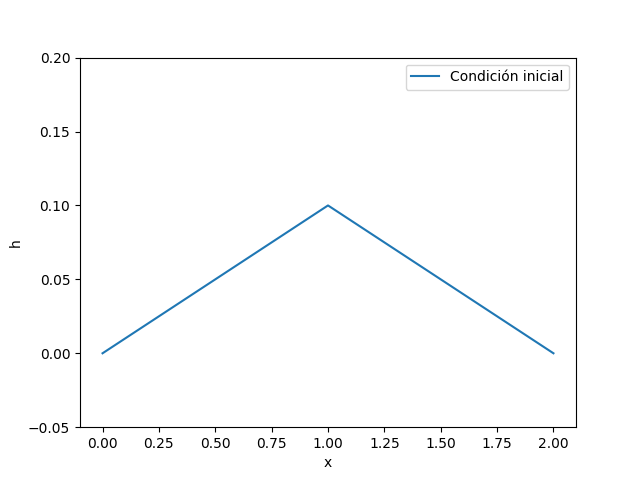
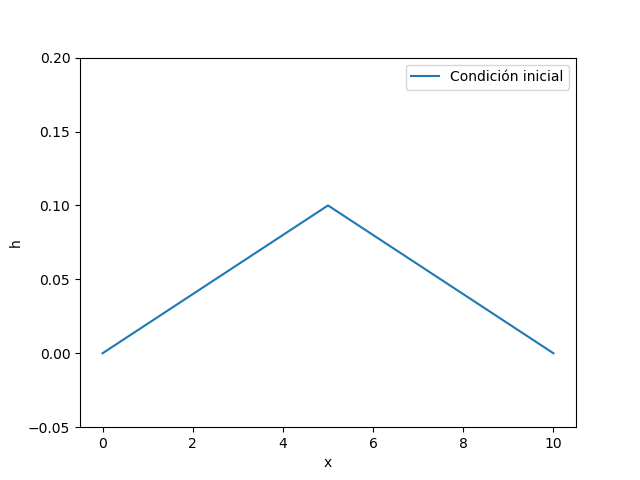
Working on pltOnda

diff --git a/S8/AnayaBryan_S8C1EDP.cpp b/S8/AnayaBryan_S8C1EDP.cpp
@@ -9,7 +9,7 @@ typedef vector<double> vec; //nombre para vector
 /*
 Inicializar método ecuación de onda
 */
-void eqOnda(float c, float L, float h, float N, vec & xInic, vec & yInic);
+void eqOnda(float c, float L, float h, float N, vec & xInic, vec & yInic, float tf);
 
 
 /*
@@ -25,14 +25,16 @@ MAIN /////////////////////////7
 int main(void){
 	float c = 300; // velocidad de propagación
     float h = 0.1; // altura inicial de la cuerda
-	float L = 2; // longitud de la cuerda
+	float L = 10; // longitud de la cuerda
     float N = 100; // Cantidad de divisiones discretas - N par
-    float tf= 0.1; // tiempo final
+    float tf= 0.01; // tiempo final
     
     // Prueba implementar funcion condición inicial
     vec xInic(N,0);
     vec yInic(N,0);
     FcondInicial(L,h,N,xInic,yInic); //Funcionó correctamente
+
+	eqOnda(c,L,h,N,xInic,yInic,tf);
     
     //vec condInicialx = FcondInicial(L,h,N)[0];
     //vec condInicialy = FcondInicial(L,h,N)[1];
@@ -49,19 +51,47 @@ void eqOnda(float c, float L, float h, float N, vec & xInic, vec & yInic, float 
     float k  = c*c*dt*dt*dx*dx;
     vec t(N,0);
     vec upast = yInic;
+	vec upres(N,0);
+	vec ufutt(N,0);
     int ntmax = tf/dt;
+
+	// Open Data
+	ofstream outfile;
+	outfile.open("dataOnda.dat");
+
+
+	for (int i = 0; i <= N; i++){
+		if (i == 0 || i == N){
+		upres[i] = 0;		
+		}
+		else {
+		upres[i] = upast[i] + 0.5*k*(upast[i+1] - 2*upast[i] + upast[i-1]);
+		}
+	}
     
-    //Open data
-    
-    for (int j = 0; j <= ntmax; j++){
+    for (int j = 2; j <= ntmax; j++){
         t[j] = dt * j; // avance en t
-        
-        for (int i = 0, i <= N, i++){
-            u[j] = 
-            
-    }
-    
-    
+
+		outfile << t[j];
+
+        for (int i = 0; i <= N; i++){
+			if (i == 0 || i == N){
+				ufutt[i] = 0;
+				outfile << "," << ufutt[i];	
+			}
+			else {
+				ufutt[i] = 2*upres[i] - upast[i] + k*(upres[i+1] - 2*upres[i] + upres[i-1]);
+				outfile << "," << ufutt[i];
+			}
+			
+		}
+		outfile << "\n";
+		upast = upres;
+		upres = ufutt;
+	}
+
+	// Close file
+	outfile.close();
     
     
 }

diff --git a/S8/AnayaBryan_S8C1EDP.py b/S8/AnayaBryan_S8C1EDP.py
@@ -12,5 +12,13 @@ plt.ylabel("h")
 plt.ylim(-.5*np.max(yf),2*np.max(yf))
 plt.legend()
 plt.savefig("Finicial.png")
+plt.close()
 
-print("prub")
+
+dataOnda = np.genfromtxt("dataOnda.dat", delimiter = ",")
+t = dataOnda[:,0]
+fils, cols = dataOnda.shape[0], dataOnda[1]
+plt.figure()
+for i in range(10):
+	plt.plot(t,dataOnda[i,1:])
+plt.savefig("GrafOnda")
